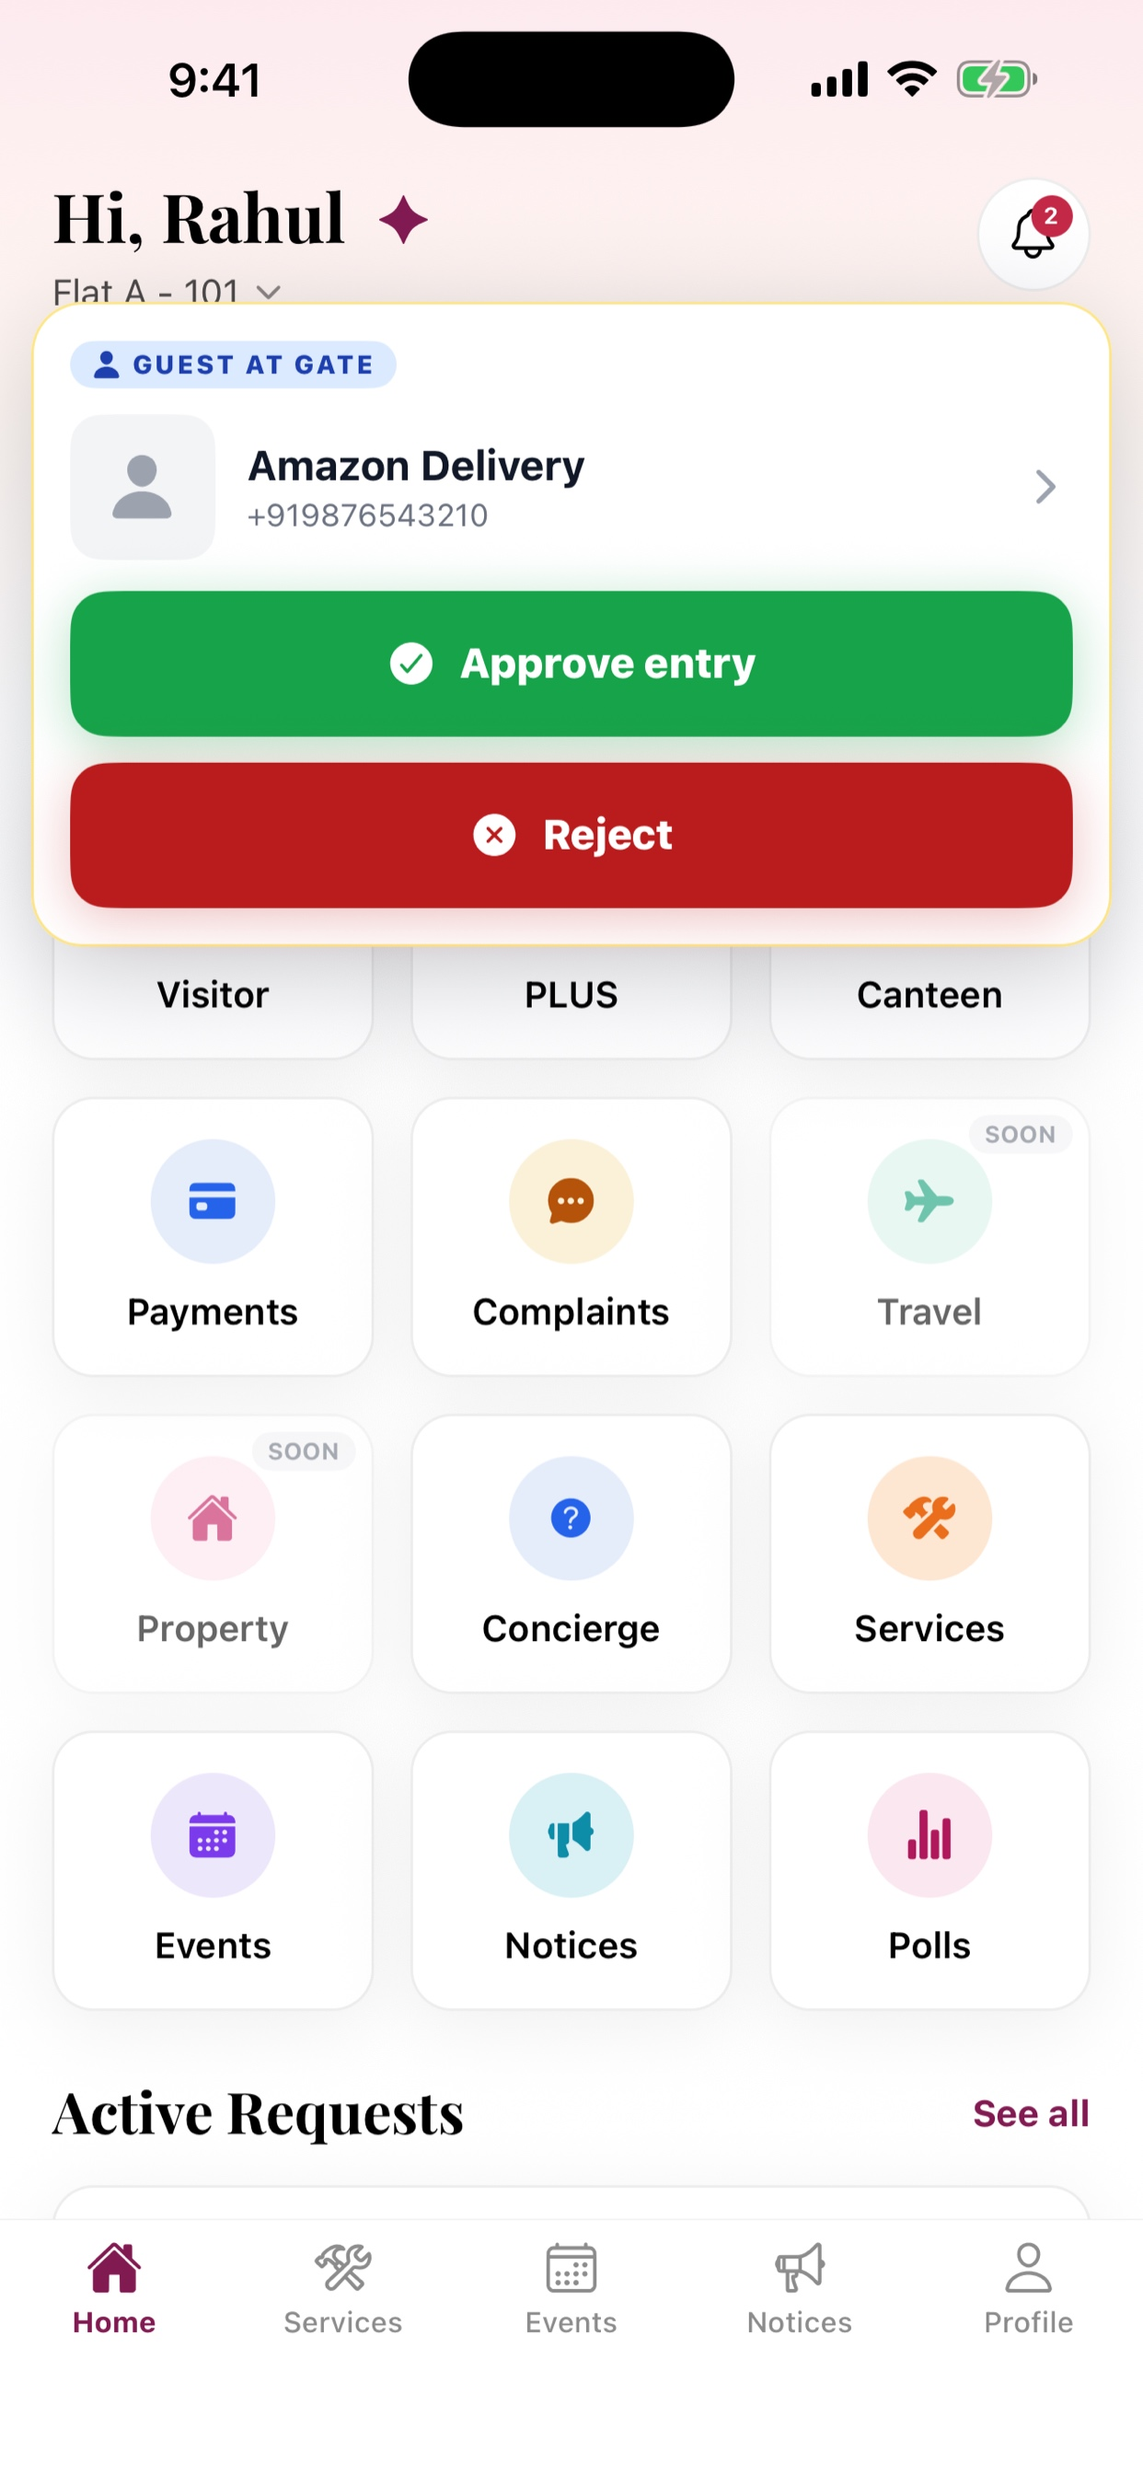
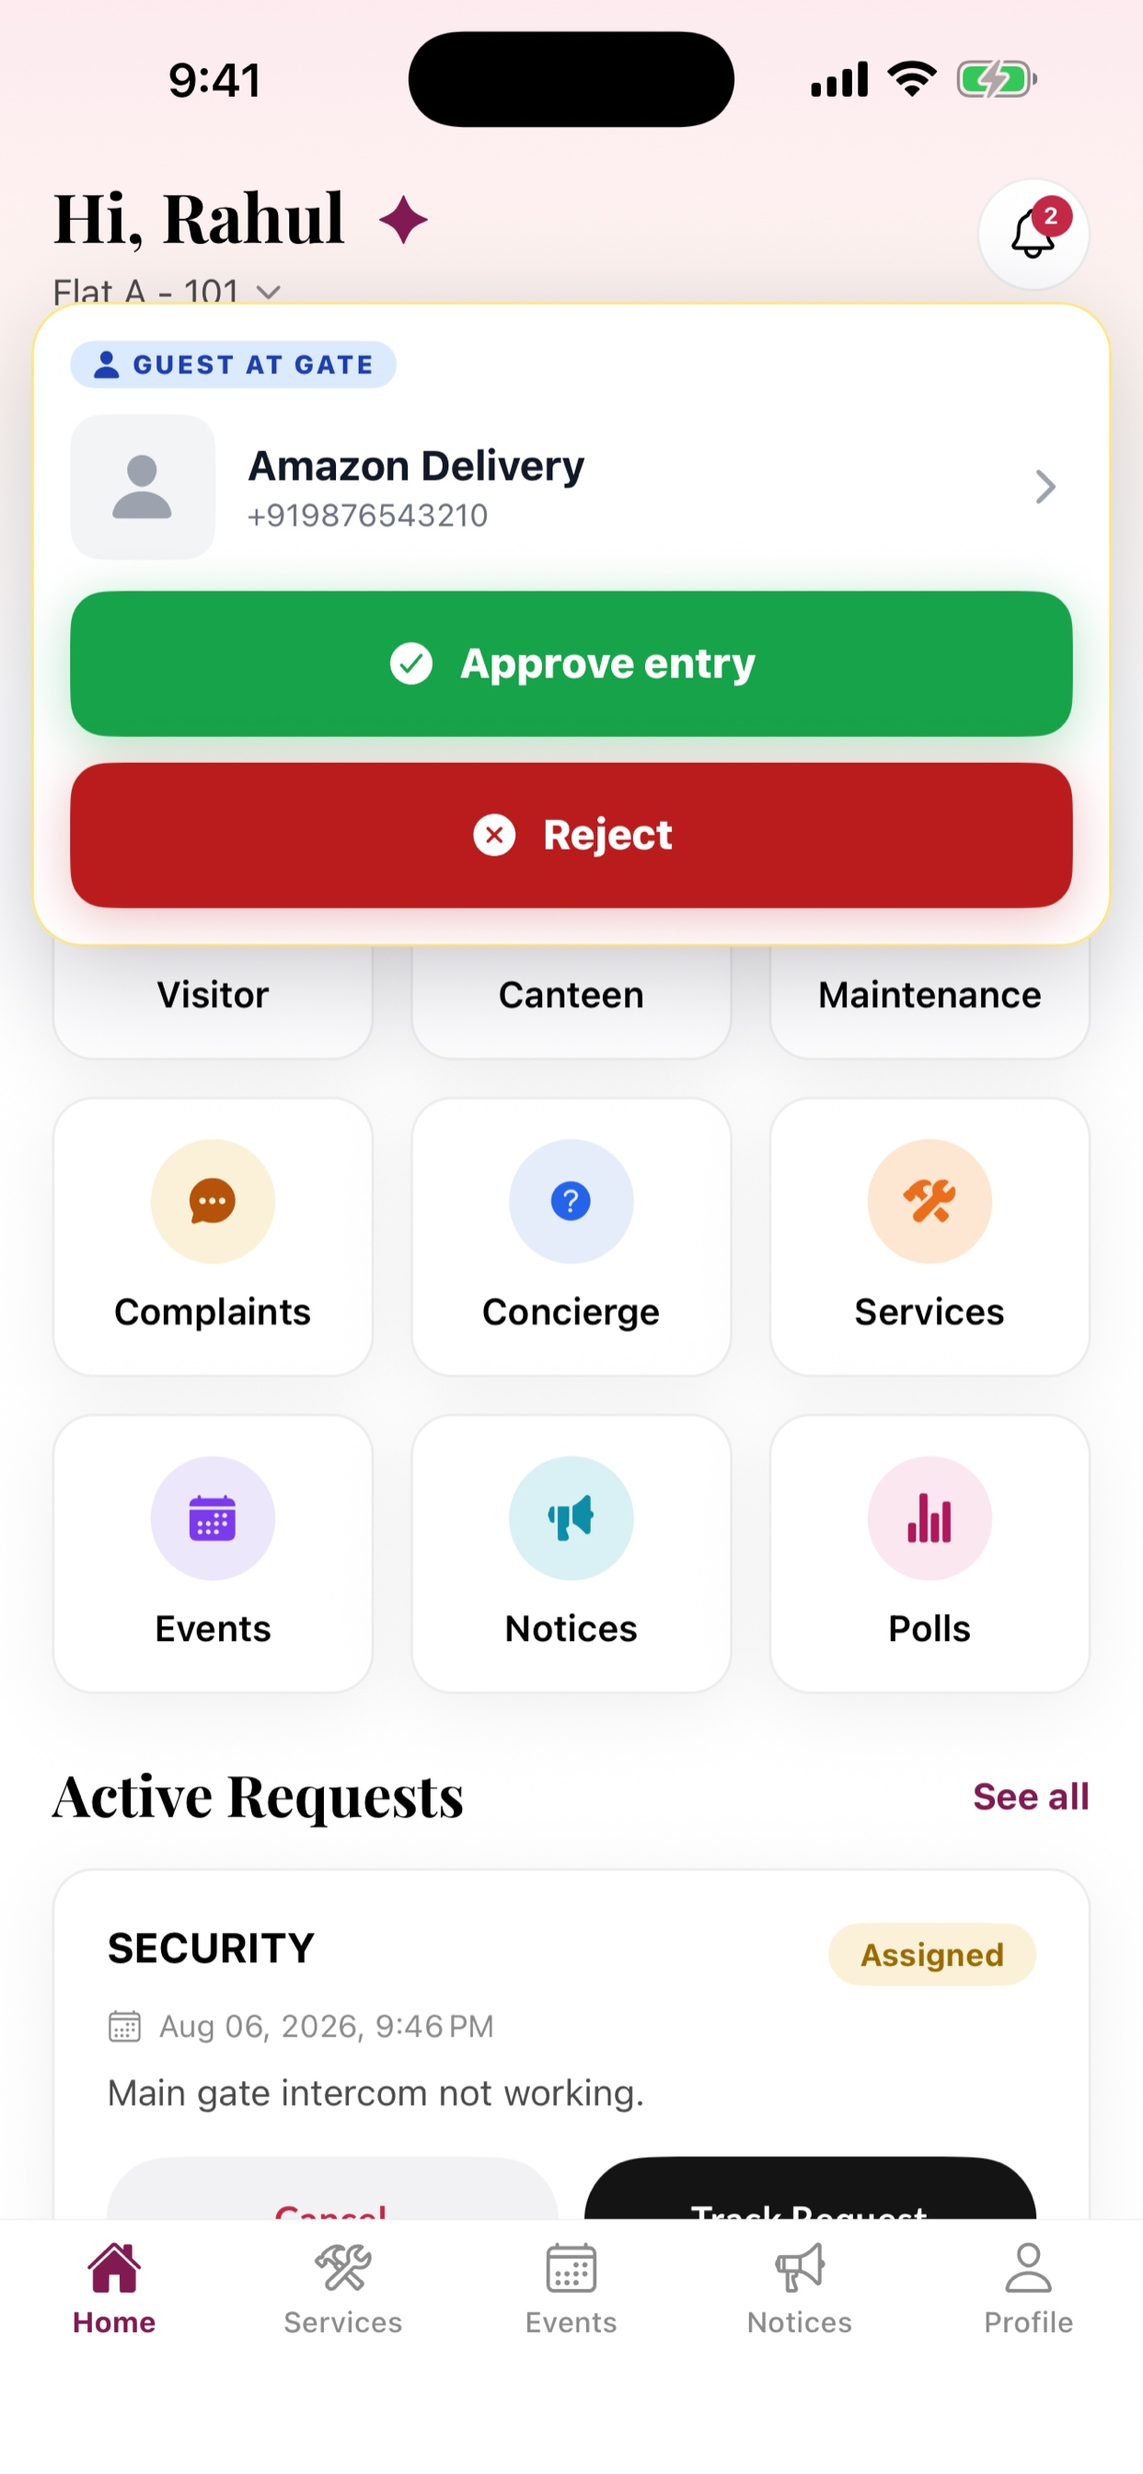
docs(resident-app): store kit for the no-payments iOS build, plus compliance checklist
- Listing text: no payment or wallet claims. Maintenance is described as
  dues shown in the app and paid at the society office. The review notes say
  the same, so a reviewer does not go looking for a Pay button.
- Screenshots 1–3 retaken from this build: Home without PLUS or "SOON" tiles,
  the gate card over the new grid, and Maintenance with the pay-at-office
  note. Both sizes, JPEG, no alpha.
- App Privacy: Health is not declared, because PLUS is hidden on iOS.
- 07-compliance-checklist.md: each guideline that commonly rejects an app
  like this, what the build does about it, and what was verified in the
  simulator.

diff --git a/apps/resident-app/store/ios/07-compliance-checklist.md b/apps/resident-app/store/ios/07-compliance-checklist.md
@@ -1,0 +1,48 @@
+# App Review compliance checklist: One Community 1.0.14 (iOS)
+
+Each line is an App Store Review Guideline that commonly rejects an app like
+this one, with what the build does about it and where. "Verified" means it was
+exercised in a Release build on the iOS 26 simulator on 2026-09-28.
+
+## Must be true before you press Submit
+
+- [ ] Demo society seeded on **production** (`backend/prisma/seed-app-review.ts`),
+      and you have signed in once with 9999999001 / 0000.
+- [ ] Backend deployed with this release's server fixes: canteen "today's menu"
+      and `GET /notices/:id`. Without them the reviewer sees an empty canteen
+      and notices that will not open.
+- [ ] App Privacy, Age Rating and the listing text entered exactly as in
+      01–04. They are written to match this build.
+
+## Guidelines
+
+| Guideline                                       | Risk for this app                                                                                                               | Status                                                                                                                                                                   |
+| ----------------------------------------------- | ------------------------------------------------------------------------------------------------------------------------------- | ------------------------------------------------------------------------------------------------------------------------------------------------------------------------ |
+| 2.1 App completeness: reviewer must sign in     | OTP-only login                                                                                                                  | ✅ Demo account with fixed OTP; review notes walk through it (02)                                                                                                        |
+| 2.1 Features must work                          | Gate approve/reject did nothing; notice detail 404; canteen empty; bill export pointed at localhost; subscription resume failed | ✅ All fixed. Verified in the simulator: approve 201, notice 200, menu shown, CSV share sheet. Resume now sends POST as the API expects (not exercised in the simulator) |
+| 2.1 / 2.2 No placeholders or "coming soon"      | Travel and Property "SOON" tiles; My property row                                                                               | ✅ Hidden on iOS (`UNFINISHED_SCREENS_ENABLED`). Verified: Home shows 9 real tiles                                                                                       |
+| 2.1 Controls must do something                  | Language picker saved a value nothing read                                                                                      | ✅ Hidden on iOS                                                                                                                                                         |
+| 2.1 No debug/test UI                            | "Send a test notification" showed the push token and failed on iOS                                                              | ✅ Hidden on iOS                                                                                                                                                         |
+| 2.1 No dead ends                                | Domestic help "Attendance" went to a missing route; unknown links showed "Unmatched Route"                                      | ✅ Button removed; `app/+not-found.tsx` redirects                                                                                                                        |
+| 2.3.1 Accurate metadata                         | Old description advertised payments, wallet, amenities, laundry, parking, AGM, health, community feed                           | ✅ Description lists only reachable features (02)                                                                                                                        |
+| 2.3.3 Screenshots show the real app             | —                                                                                                                               | ✅ Captured from this build (05), no device frames, fictional data                                                                                                       |
+| 2.3.10 No other-platform references             | "Google Play services" string on the push test screen                                                                           | ✅ Screen hidden on iOS                                                                                                                                                  |
+| 1.2 User-generated content needs report + block | Community feed; others' review comments                                                                                         | ✅ Hidden on iOS (`UGC_ENABLED`); age rating UGC = No                                                                                                                    |
+| 3.1.1 In-app purchase                           | Razorpay for maintenance and wallet top-up                                                                                      | ✅ No payments at all: Pay Now, Auto-Pay and Wallet removed, and the Razorpay SDK is removed from the app. Bills are informational                                       |
+| 4.2 Minimum functionality / web wrapper         | PLUS opened a web portal                                                                                                        | ✅ PLUS hidden on iOS (`CARE_PORTAL_ENABLED`)                                                                                                                            |
+| 4.8 Sign in with Apple                          | Required only with third-party social login                                                                                     | ✅ N/A: phone OTP only                                                                                                                                                   |
+| 5.1.1(v) Account deletion in-app                | Was an email draft                                                                                                              | ✅ Settings → Delete account calls `POST /auth/delete`. Verified: 201, user anonymised and suspended, signed out                                                         |
+| 5.1.1 Purpose strings accurate                  | "Geofencing", unused Always-location and microphone                                                                             | ✅ Exact strings; unused keys removed                                                                                                                                    |
+| 5.1.2 Privacy labels match behaviour            | Health via PLUS; tracking                                                                                                       | ✅ Health not collected on iOS; tracking = No, no IDFA (03)                                                                                                              |
+| 5.1.1 Privacy policy URL reachable              | marzitech.in/privacy-policy 404s                                                                                                | ✅ Listing uses the amplifyapp.com URL (200)                                                                                                                             |
+| Export compliance                               | Upload blocked on the encryption question                                                                                       | ✅ `ITSAppUsesNonExemptEncryption = false`                                                                                                                               |
+| Privacy manifest (required-reason APIs)         | Missing manifest is flagged at upload                                                                                           | ✅ `PrivacyInfo.xcprivacy` declares UserDefaults, FileTimestamp, DiskSpace and SystemBootTime reasons                                                                    |
+| App icon                                        | Alpha channel rejected                                                                                                          | ✅ 1024×1024, no alpha                                                                                                                                                   |
+| Push entitlement                                | Development APNs on a store build                                                                                               | ✅ `aps-environment = production` via `APP_VARIANT=production`                                                                                                           |
+
+## Known, not a rejection risk, fix after launch
+
+- iOS push is not delivered (APNs token sent to FCM). See 06, "Open items".
+- The SOS screen never receives the live "acknowledged" update. It uses the
+  wrong socket namespace and never joins the society room. The alert itself is
+  sent correctly.

diff --git a/apps/resident-app/store/ios/02-description-and-keywords.md b/apps/resident-app/store/ios/02-description-and-keywords.md
@@ -3,21 +3,23 @@
 Every field below is inside Apple's limit; the count is shown so you can see the
 headroom before editing.
 
-## Promotional Text (170 max — this one is 158)
+## Promotional Text (170 max — this one is 156)
 
 Can be changed any time WITHOUT a new build or review — use it for
 announcements.
 
 ```
-Approve visitors before they reach your door, pay maintenance, raise a service request and read society notices — everything your society needs, in one place.
+Approve visitors before they reach your door, track maintenance dues, book a service and read society notices — everything your society needs, in one place.
 ```
 
-## Description (4000 max — this one is 1421)
+## Description (4000 max — this one is 1377)
 
 Describes only what a reviewer can reach in this build. Amenity booking,
-laundry, parking, AGM, budget, the community feed and the health module exist
-in the codebase but are not reachable on iOS 1.0 — advertising them is a
-Guideline 2.3.1 (inaccurate metadata) rejection. Add each back when it ships.
+laundry, parking, AGM, budget, the community feed, the health module, travel
+and property exist in the codebase but are not reachable on iOS 1.0, and
+advertising them is a Guideline 2.3.1 (inaccurate metadata) rejection. There
+is no in-app payment: maintenance is paid at the society office. Add each
+feature back to the text when it ships.
 
 ```
 One Community brings the everyday running of your residential society into a single app.
@@ -25,8 +27,8 @@ One Community brings the everyday running of your residential society into a sin
 VISITORS & DELIVERIES
 Approve or reject a visitor from your phone before they reach your door. Security logs the guest at the gate and you decide — no intercom, no waiting. Pre-approve expected guests with a shareable pass, and keep a record of who came and when.
 
-MAINTENANCE & PAYMENTS
-See your maintenance bill and its due date, pay from the app, and keep your payment history in one place. Your wallet balance and past transactions are always visible.
+MAINTENANCE DUES
+See your maintenance bill, the amount due and the due date, and every payment your society office has recorded against your flat.
 
 SERVICES & REQUESTS
 Book a plumber, electrician, carpenter or painter, or raise a request with the society office. Track it as staff pick it up and complete it.
@@ -90,11 +92,12 @@ After sign-in you will see a visitor waiting at the gate with Approve /
 Reject buttons — this is the app's core feature: security logs a guest at
 the gate and the resident decides from their phone.
 
+Maintenance bills are shown for information only. Residents pay at their
+society office, and the app has no payment feature.
+
 Location is requested only to attach the resident's position to an
 Emergency SOS; it is never used in the background. The demo society has no
 security staff, so pressing SOS alerts no one.
-
-The PLUS tile opens our Care portal (our own website) inside the app.
 ```
 
 ⚠ Before submitting, run the demo-society script on **production** — see

diff --git a/apps/resident-app/store/ios/06-build-and-submit.md b/apps/resident-app/store/ios/06-build-and-submit.md
@@ -101,6 +101,35 @@ Connect.
 Version `1.0.14`, build `1`. Every later upload needs a higher build number:
 set `ios.buildNumber` in `app.json`.
 
+## 4b. TestFlight (internal testers)
+
+Once the upload finishes processing (App Store Connect emails you, usually
+10–30 minutes):
+
+1. App Store Connect → the app → **TestFlight**. If the build shows
+   "Missing Compliance", answer "None of the algorithms mentioned above". It
+   should not appear, because the build declares
+   `ITSAppUsesNonExemptEncryption = false`.
+2. **Internal Testing → +** → create a group (e.g. "Marzi team") and add
+   people from Users and Access. Internal testers must be App Store Connect
+   users. No Beta App Review is needed.
+3. Add the build to the group. Testers get an email and install through the
+   TestFlight app.
+4. **Test Information → What to Test** (shown to testers):
+
+```
+First iOS build of One Community. Please check:
+- Sign in with your society and mobile number.
+- A visitor logged at the gate shows Approve / Reject on Home — approve one.
+- Maintenance dues, Canteen menu, Services, Notices (open one) and Polls.
+- Settings → Delete account (use a throwaway account).
+- Emergency SOS: test only in a demo society.
+Known: push notifications are not delivered on iOS yet.
+```
+
+External testers (anyone by email or public link) need a one-time Beta App
+Review using the same demo account as the App Store review.
+
 ## 5. Submit (App Store Connect)
 
 1. Wait for the build to finish processing (email, about 10–30 minutes). Add

diff --git a/apps/resident-app/store/ios/03-app-privacy.md b/apps/resident-app/store/ios/03-app-privacy.md
@@ -68,16 +68,13 @@ advertising and no cross-app tracking. So:
 - Collected: Yes · Linked: **Yes** · Tracking: No
 - Purposes: **App Functionality** (Sentry)
 
-### Health & Fitness → Health
+## Do NOT declare Health
 
-- Collected: Yes · Linked: **Yes** · Tracking: No
-- Purposes: **App Functionality**
-- The native health module is off in this build (`HEALTH_ENABLED = false`), but
-  the **PLUS** tile on Home opens the Care portal in an in-app WebView
-  (`app/plus.tsx` → `/care` on admin-web), and the portal logs vitals and keeps
-  health records. Data collected inside a WebView the app hosts counts as
-  collected by the app. Declare it; omitting a real collection is far worse
-  than over-declaring.
+Not collected by the iOS build: the native health module is off
+(`HEALTH_ENABLED = false`) and the PLUS Care portal, the web route to vitals
+and records, is hidden on iOS (`CARE_PORTAL_ENABLED = false`). If either is
+turned on for iOS, add **Health & Fitness → Health** (Linked, App
+Functionality, not tracking) in the same release.
 
 ## Account deletion (required since 2022)
 

diff --git a/apps/resident-app/store/ios/05-screenshots.md b/apps/resident-app/store/ios/05-screenshots.md
@@ -24,9 +24,9 @@ JPEG with no alpha channel (App Store Connect rejects PNGs with alpha).
 
 | #   | File                      | Shows                                                    |
 | --- | ------------------------- | -------------------------------------------------------- |
-| 1   | `01-home.jpg`             | Home: pinned notice, Emergency SOS, quick actions        |
+| 1   | `01-home.jpg`             | Home: Emergency SOS, quick actions, active requests      |
 | 2   | `02-visitor-approval.jpg` | Guest at the gate with Approve entry / Reject            |
-| 3   | `03-maintenance.jpg`      | Maintenance bill, due date, Pay Now, payment history     |
+| 3   | `03-maintenance.jpg`      | Maintenance dues, due date, pay-at-office note, history  |
 | 4   | `04-services.jpg`         | Book a plumber / carpenter / electrician; active request |
 | 5   | `05-canteen.jpg`          | Today's breakfast menu with calories and veg tags        |
 | 6   | `06-notices.jpg`          | Notice board                                             |
